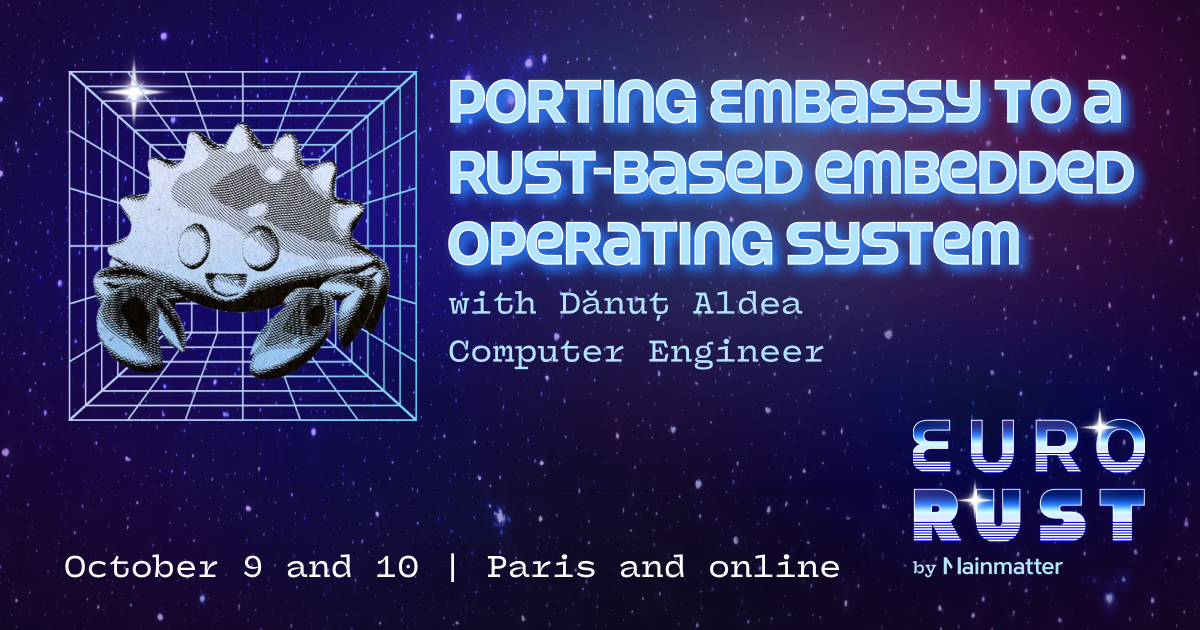
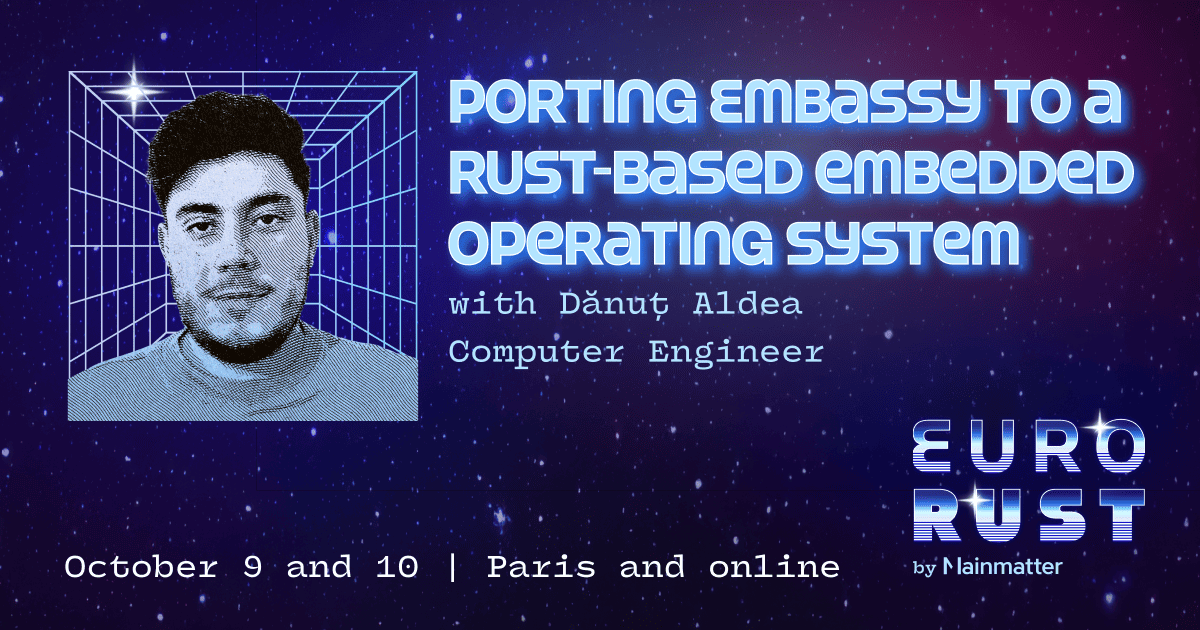
update(danut's info and picture)

diff --git a/content/speakers/danut-aldea.md b/content/speakers/danut-aldea.md
@@ -3,8 +3,8 @@ template = "speaker.html"
 title = "Speaker: Dănuț Aldea"
 [extra]
   name = "Dănuț Aldea"
-  url = ""
-  image = ""
+  url = "https://www.linkedin.com/in/george-danut-aldea-362628288/"
+  image = "/images/talks/danut-aldea.webp"
   twitter = ""
   mastodon = ""
   bio = "<p>I am a computer engineer with a passion for systems programming, embedded development, and open-source. I enjoy working with Rust and exploring how low-level software interacts with hardware efficiently, reliably, and securely.</p>"
